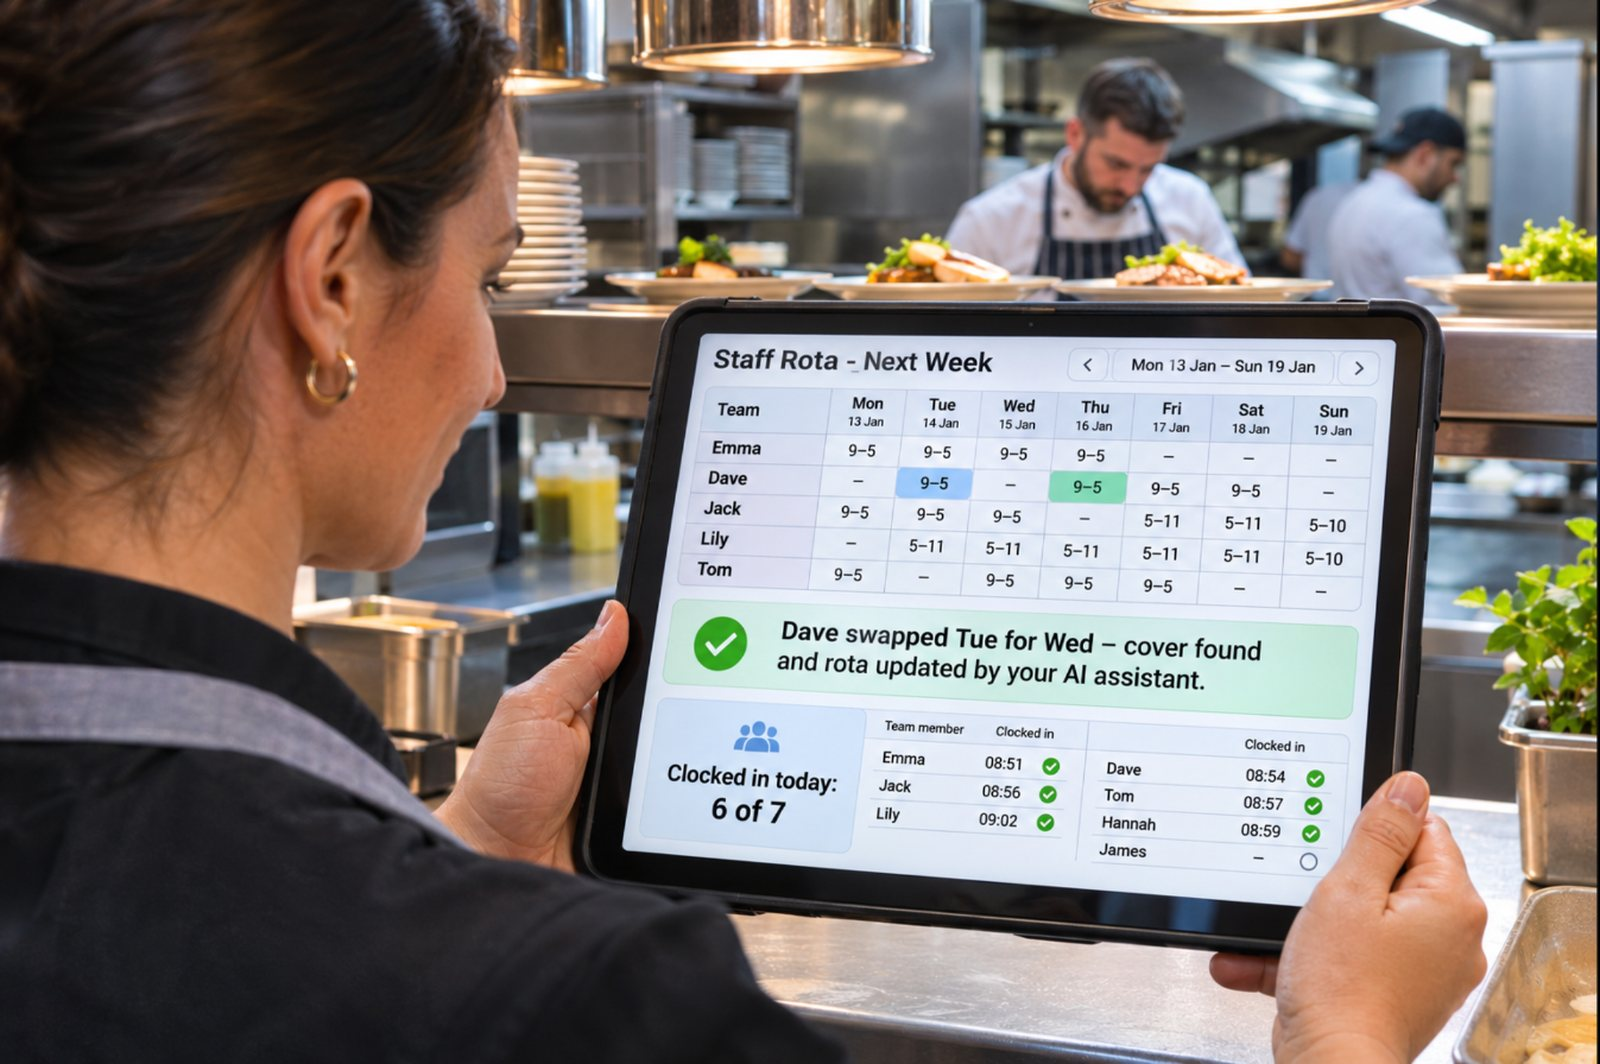
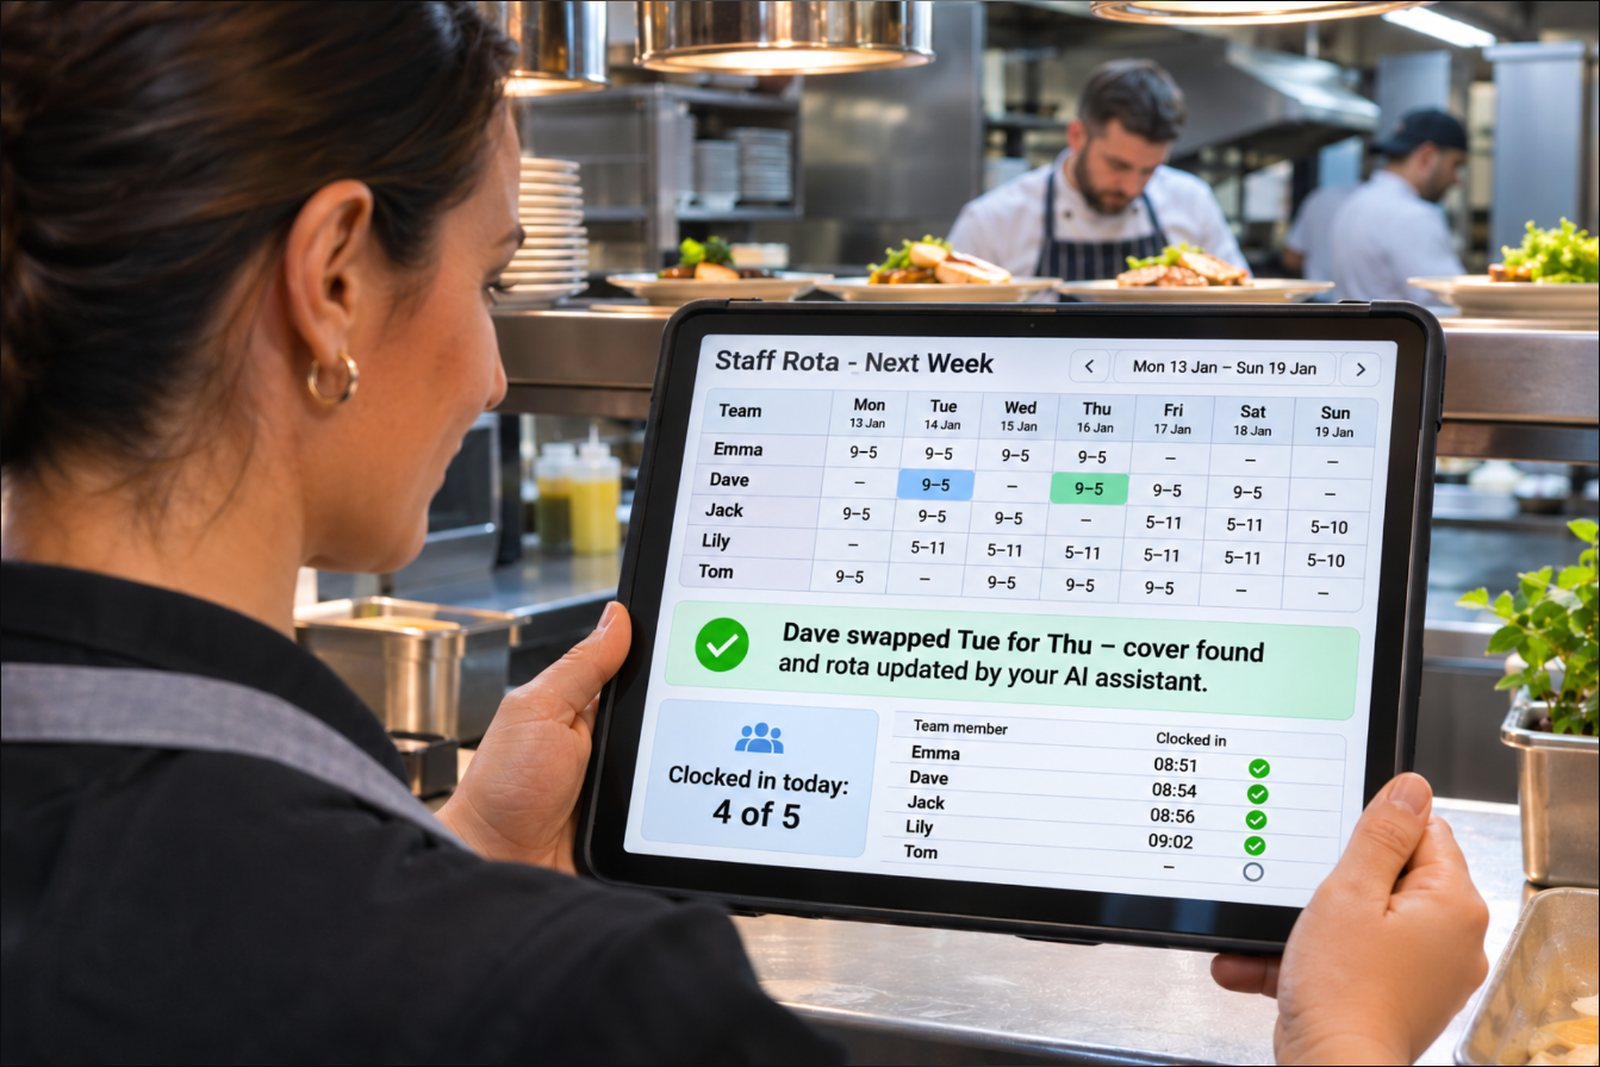
Product photos: 13 more job photos (37 in total), every product now shows a photo of its own job; rota photo text fixed; remapped mismatches
Claude-Session: https://claude.ai/code/session_01MQG2jPWaBfCN31uxto5NF5

diff --git a/src/lib/srcset.ts b/src/lib/srcset.ts
@@ -11,18 +11,38 @@ import w_food_production_480 from "@/assets/web/food-production-480.webp";
 import w_food_production_960 from "@/assets/web/food-production-960.webp";
 import w_hero_480 from "@/assets/web/hero-480.webp";
 import w_hero_960 from "@/assets/web/hero-960.webp";
+import w_job_ads_480 from "@/assets/web/job-ads-480.webp";
+import w_job_ads_960 from "@/assets/web/job-ads-960.webp";
 import w_job_alerts_480 from "@/assets/web/job-alerts-480.webp";
 import w_job_alerts_960 from "@/assets/web/job-alerts-960.webp";
+import w_job_approvals_480 from "@/assets/web/job-approvals-480.webp";
+import w_job_approvals_960 from "@/assets/web/job-approvals-960.webp";
+import w_job_clinical_480 from "@/assets/web/job-clinical-480.webp";
+import w_job_clinical_960 from "@/assets/web/job-clinical-960.webp";
 import w_job_courses_480 from "@/assets/web/job-courses-480.webp";
 import w_job_courses_960 from "@/assets/web/job-courses-960.webp";
+import w_job_credit_480 from "@/assets/web/job-credit-480.webp";
+import w_job_credit_960 from "@/assets/web/job-credit-960.webp";
+import w_job_crop_480 from "@/assets/web/job-crop-480.webp";
+import w_job_crop_960 from "@/assets/web/job-crop-960.webp";
 import w_job_dashboard_480 from "@/assets/web/job-dashboard-480.webp";
 import w_job_dashboard_960 from "@/assets/web/job-dashboard-960.webp";
 import w_job_inspections_480 from "@/assets/web/job-inspections-480.webp";
 import w_job_inspections_960 from "@/assets/web/job-inspections-960.webp";
 import w_job_insurance_480 from "@/assets/web/job-insurance-480.webp";
 import w_job_insurance_960 from "@/assets/web/job-insurance-960.webp";
+import w_job_intake_480 from "@/assets/web/job-intake-480.webp";
+import w_job_intake_960 from "@/assets/web/job-intake-960.webp";
 import w_job_invoices_480 from "@/assets/web/job-invoices-480.webp";
 import w_job_invoices_960 from "@/assets/web/job-invoices-960.webp";
+import w_job_knowledge_480 from "@/assets/web/job-knowledge-480.webp";
+import w_job_knowledge_960 from "@/assets/web/job-knowledge-960.webp";
+import w_job_landing_480 from "@/assets/web/job-landing-480.webp";
+import w_job_landing_960 from "@/assets/web/job-landing-960.webp";
+import w_job_outbound_480 from "@/assets/web/job-outbound-480.webp";
+import w_job_outbound_960 from "@/assets/web/job-outbound-960.webp";
+import w_job_property_deals_480 from "@/assets/web/job-property-deals-480.webp";
+import w_job_property_deals_960 from "@/assets/web/job-property-deals-960.webp";
 import w_job_recruiting_480 from "@/assets/web/job-recruiting-480.webp";
 import w_job_recruiting_960 from "@/assets/web/job-recruiting-960.webp";
 import w_job_reviews_480 from "@/assets/web/job-reviews-480.webp";
@@ -31,6 +51,12 @@ import w_job_social_480 from "@/assets/web/job-social-480.webp";
 import w_job_social_960 from "@/assets/web/job-social-960.webp";
 import w_job_staff_480 from "@/assets/web/job-staff-480.webp";
 import w_job_staff_960 from "@/assets/web/job-staff-960.webp";
+import w_job_stock_480 from "@/assets/web/job-stock-480.webp";
+import w_job_stock_960 from "@/assets/web/job-stock-960.webp";
+import w_job_trackers_480 from "@/assets/web/job-trackers-480.webp";
+import w_job_trackers_960 from "@/assets/web/job-trackers-960.webp";
+import w_job_translate_480 from "@/assets/web/job-translate-480.webp";
+import w_job_translate_960 from "@/assets/web/job-translate-960.webp";
 import w_logistics_480 from "@/assets/web/logistics-480.webp";
 import w_logistics_960 from "@/assets/web/logistics-960.webp";
 import w_manufacturing_480 from "@/assets/web/manufacturing-480.webp";
@@ -55,16 +81,29 @@ export const SRCSET: Record<string, string> = {
   "farming": ss([[w_farming_480, 480], [w_farming_960, 960]]),
   "food-production": ss([[w_food_production_480, 480], [w_food_production_960, 960]]),
   "hero": ss([[w_hero_480, 480], [w_hero_960, 960]]),
+  "job-ads": ss([[w_job_ads_480, 480], [w_job_ads_960, 960]]),
   "job-alerts": ss([[w_job_alerts_480, 480], [w_job_alerts_960, 960]]),
+  "job-approvals": ss([[w_job_approvals_480, 480], [w_job_approvals_960, 960]]),
+  "job-clinical": ss([[w_job_clinical_480, 480], [w_job_clinical_960, 960]]),
   "job-courses": ss([[w_job_courses_480, 480], [w_job_courses_960, 960]]),
+  "job-credit": ss([[w_job_credit_480, 480], [w_job_credit_960, 960]]),
+  "job-crop": ss([[w_job_crop_480, 480], [w_job_crop_960, 960]]),
   "job-dashboard": ss([[w_job_dashboard_480, 480], [w_job_dashboard_960, 960]]),
   "job-inspections": ss([[w_job_inspections_480, 480], [w_job_inspections_960, 960]]),
   "job-insurance": ss([[w_job_insurance_480, 480], [w_job_insurance_960, 960]]),
+  "job-intake": ss([[w_job_intake_480, 480], [w_job_intake_960, 960]]),
   "job-invoices": ss([[w_job_invoices_480, 480], [w_job_invoices_960, 960]]),
+  "job-knowledge": ss([[w_job_knowledge_480, 480], [w_job_knowledge_960, 960]]),
+  "job-landing": ss([[w_job_landing_480, 480], [w_job_landing_960, 960]]),
+  "job-outbound": ss([[w_job_outbound_480, 480], [w_job_outbound_960, 960]]),
+  "job-property-deals": ss([[w_job_property_deals_480, 480], [w_job_property_deals_960, 960]]),
   "job-recruiting": ss([[w_job_recruiting_480, 480], [w_job_recruiting_960, 960]]),
   "job-reviews": ss([[w_job_reviews_480, 480], [w_job_reviews_960, 960]]),
   "job-social": ss([[w_job_social_480, 480], [w_job_social_960, 960]]),
   "job-staff": ss([[w_job_staff_480, 480], [w_job_staff_960, 960]]),
+  "job-stock": ss([[w_job_stock_480, 480], [w_job_stock_960, 960]]),
+  "job-trackers": ss([[w_job_trackers_480, 480], [w_job_trackers_960, 960]]),
+  "job-translate": ss([[w_job_translate_480, 480], [w_job_translate_960, 960]]),
   "logistics": ss([[w_logistics_480, 480], [w_logistics_960, 960]]),
   "manufacturing": ss([[w_manufacturing_480, 480], [w_manufacturing_960, 960]]),
   "office-teams": ss([[w_office_teams_480, 480], [w_office_teams_960, 960]]),

diff --git a/src/lib/tradePhotos.ts b/src/lib/tradePhotos.ts
@@ -5,16 +5,29 @@ import p_clinics from "@/assets/trades/clinics.jpg";
 import p_equipment_hire from "@/assets/trades/equipment-hire.jpg";
 import p_farming from "@/assets/trades/farming.jpg";
 import p_food_production from "@/assets/trades/food-production.jpg";
+import p_job_ads from "@/assets/trades/job-ads.jpg";
 import p_job_alerts from "@/assets/trades/job-alerts.jpg";
+import p_job_approvals from "@/assets/trades/job-approvals.jpg";
+import p_job_clinical from "@/assets/trades/job-clinical.jpg";
 import p_job_courses from "@/assets/trades/job-courses.jpg";
+import p_job_credit from "@/assets/trades/job-credit.jpg";
+import p_job_crop from "@/assets/trades/job-crop.jpg";
 import p_job_dashboard from "@/assets/trades/job-dashboard.jpg";
 import p_job_inspections from "@/assets/trades/job-inspections.jpg";
 import p_job_insurance from "@/assets/trades/job-insurance.jpg";
+import p_job_intake from "@/assets/trades/job-intake.jpg";
 import p_job_invoices from "@/assets/trades/job-invoices.jpg";
+import p_job_knowledge from "@/assets/trades/job-knowledge.jpg";
+import p_job_landing from "@/assets/trades/job-landing.jpg";
+import p_job_outbound from "@/assets/trades/job-outbound.jpg";
+import p_job_property_deals from "@/assets/trades/job-property-deals.jpg";
 import p_job_recruiting from "@/assets/trades/job-recruiting.jpg";
 import p_job_reviews from "@/assets/trades/job-reviews.jpg";
 import p_job_social from "@/assets/trades/job-social.jpg";
 import p_job_staff from "@/assets/trades/job-staff.jpg";
+import p_job_stock from "@/assets/trades/job-stock.jpg";
+import p_job_trackers from "@/assets/trades/job-trackers.jpg";
+import p_job_translate from "@/assets/trades/job-translate.jpg";
 import p_logistics from "@/assets/trades/logistics.jpg";
 import p_manufacturing from "@/assets/trades/manufacturing.jpg";
 import p_office_teams from "@/assets/trades/office-teams.jpg";
@@ -30,16 +43,29 @@ export const TRADE_PHOTOS: Record<string, StaticImageData> = {
   "equipment-hire": p_equipment_hire,
   "farming": p_farming,
   "food-production": p_food_production,
+  "job-ads": p_job_ads,
   "job-alerts": p_job_alerts,
+  "job-approvals": p_job_approvals,
+  "job-clinical": p_job_clinical,
   "job-courses": p_job_courses,
+  "job-credit": p_job_credit,
+  "job-crop": p_job_crop,
   "job-dashboard": p_job_dashboard,
   "job-inspections": p_job_inspections,
   "job-insurance": p_job_insurance,
+  "job-intake": p_job_intake,
   "job-invoices": p_job_invoices,
+  "job-knowledge": p_job_knowledge,
+  "job-landing": p_job_landing,
+  "job-outbound": p_job_outbound,
+  "job-property-deals": p_job_property_deals,
   "job-recruiting": p_job_recruiting,
   "job-reviews": p_job_reviews,
   "job-social": p_job_social,
   "job-staff": p_job_staff,
+  "job-stock": p_job_stock,
+  "job-trackers": p_job_trackers,
+  "job-translate": p_job_translate,
   "logistics": p_logistics,
   "manufacturing": p_manufacturing,
   "office-teams": p_office_teams,

diff --git a/src/lib/productPhotos.ts b/src/lib/productPhotos.ts
@@ -1,7 +1,7 @@
 /**
  * Which photo each product page shows: products that do the same job share one photo, so every
  * image shows that product's actual result. Slugs are photos in src/assets (hero.jpg or trades/*.jpg).
- * A product whose photo isn't live yet shows none (never a picture of a different job).
+ * A product whose photo file is missing shows the category art instead (never a picture of a different job).
  */
 const JOBS: Record<string, number[]> = {
   hero: [7, 8, 10, 11, 40, 55, 56, 64, 66, 108, 120],
@@ -15,20 +15,33 @@ const JOBS: Record<string, number[]> = {
   manufacturing: [21, 36, 58, 68, 69, 115],
   "office-teams": [50, 53, 61, 62, 63, 93, 101, 107, 111],
   professional: [23, 24, 42, 59, 123, 31],
-  property: [34, 119],
+  property: [118, 34, 119],
   retail: [16, 20, 28, 131, 136],
   "busy-professionals": [92, 96, 140, 49],
   "job-reviews": [1, 2, 15, 43, 57, 65],
   "job-invoices": [22, 41, 124, 125],
   "job-dashboard": [25, 127, 128, 137, 141],
   "job-social": [17, 142, 143, 144, 145],
-  "job-inspections": [37, 47, 48, 60, 91, 97, 98, 113, 135, 139],
+  "job-inspections": [37, 47, 48, 60, 97, 113, 135, 139],
   "job-insurance": [45, 46, 38],
   "job-recruiting": [110],
   "job-courses": [70, 71, 72, 73, 74, 75, 76, 77, 78, 102, 103, 104, 105, 106, 100],
   "job-alerts": [39, 80, 44, 52, 134],
   "job-staff": [30, 79, 94, 112],
+  "job-ads": [18, 19],
+  "job-property-deals": [117, 138],
+  "job-knowledge": [9, 51, 54],
+  "job-stock": [27, 129],
+  "job-outbound": [12],
+  "job-clinical": [132],
+  "job-crop": [90],
+  "job-approvals": [95],
+  "job-intake": [32],
+  "job-translate": [67],
+  "job-landing": [3],
+  "job-credit": [126],
+  "job-trackers": [98, 91, 99],
 };
 /** Products still waiting for a photo of their own job (they show the category art meanwhile). */
-export const PHOTO_PENDING = [3, 9, 12, 18, 19, 27, 32, 51, 54, 67, 90, 95, 99, 117, 118, 126, 129, 132, 138];
+export const PHOTO_PENDING: number[] = [];
 export const PRODUCT_PHOTO: Record<number, string> = Object.fromEntries(Object.entries(JOBS).flatMap(([slug, ids]) => ids.map((id) => [id, slug])));
